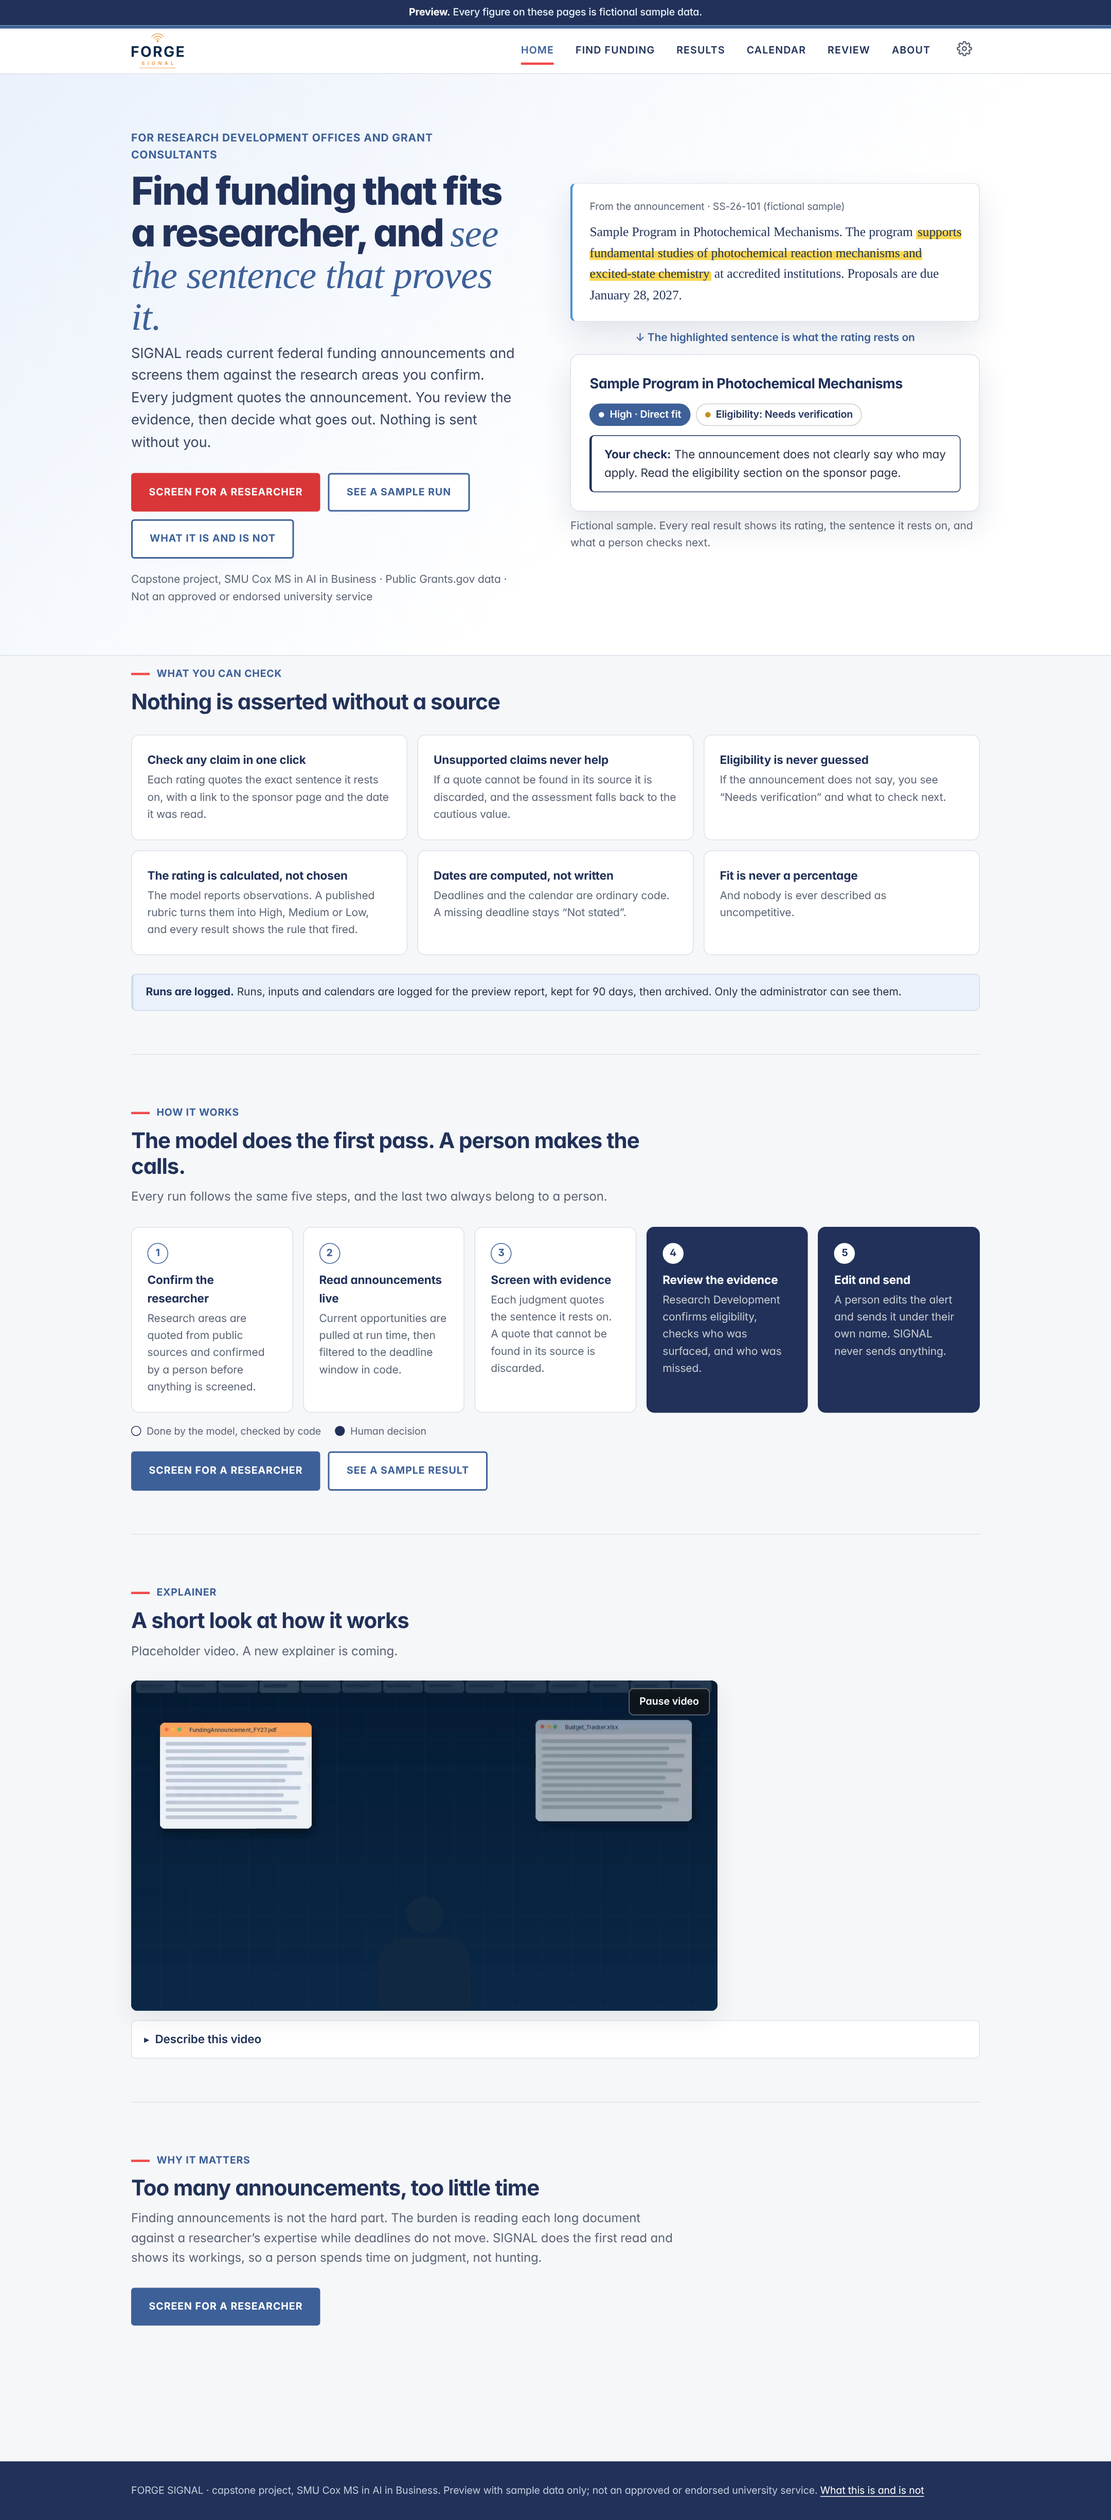
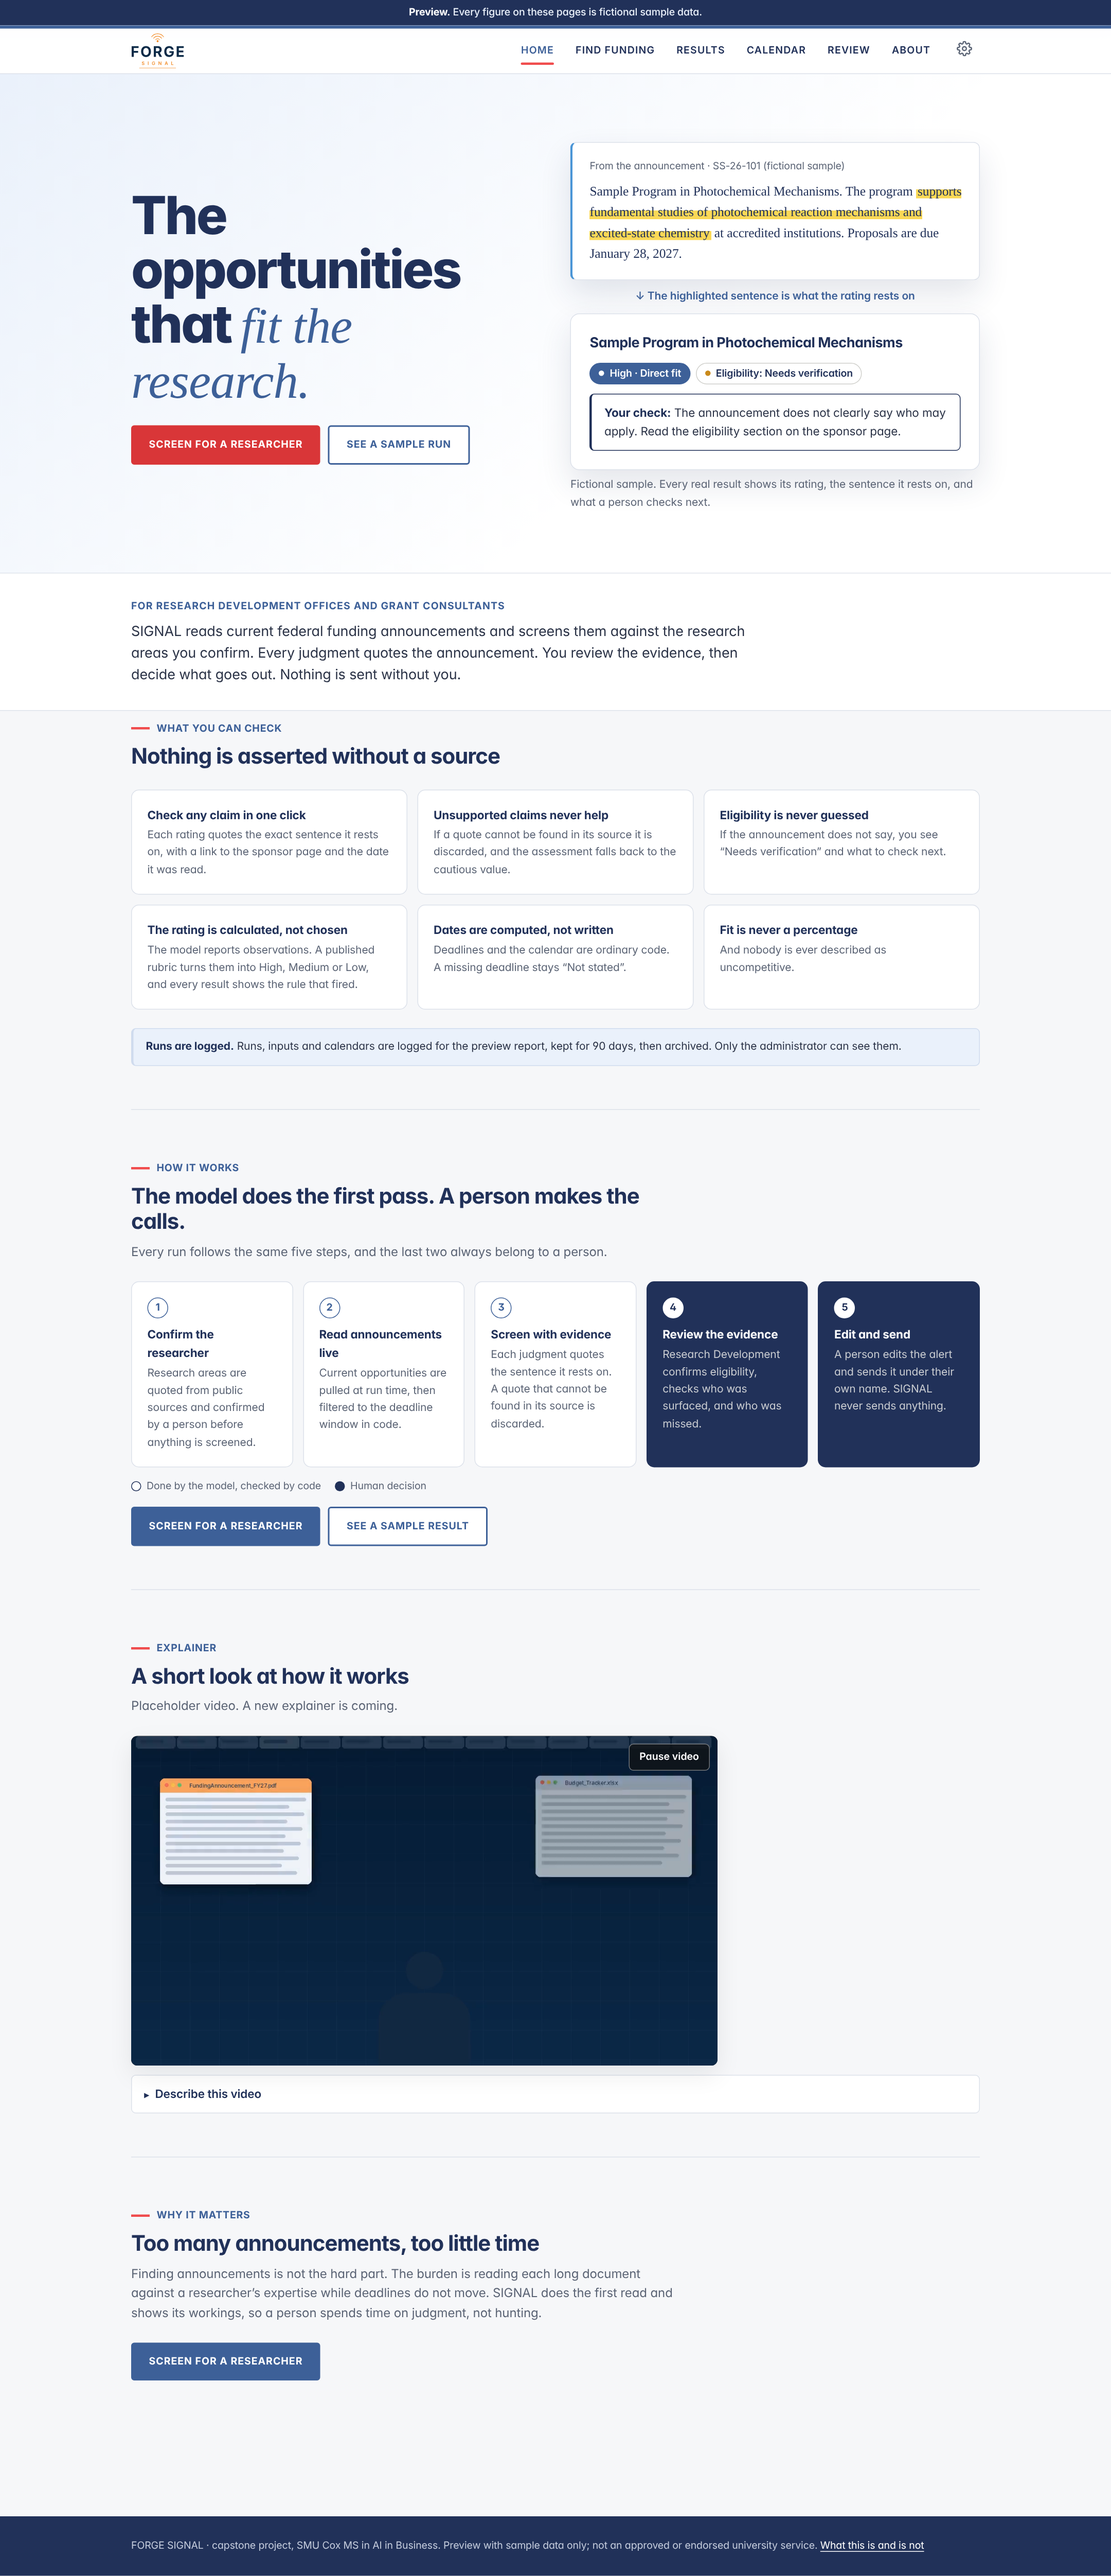
V4: simple hero tagline; promise and audience move below the hero and to About (not pushed)
Claude-Session: https://claude.ai/code/session_01S4MNgDbWgdLg3TnNVptJv9

diff --git a/public/signal/index.html b/public/signal/index.html
@@ -20,11 +20,8 @@
 <main id="main">
 <section class="hero"><div class="wrap hero-grid">
  <div>
-  <p class="eyebrow">For research development offices and grant consultants</p>
-  <h1>Find funding that fits a researcher, and <em>see the sentence that proves it.</em></h1>
-  <p class="lead">SIGNAL reads current federal funding announcements and screens them against the research areas you confirm. Every judgment quotes the announcement. You review the evidence, then decide what goes out. Nothing is sent without you.</p>
-  <div class="btn-row"><a class="btn accent" href="match.html">Screen for a researcher</a><a class="btn ghost sample-only" href="results.html">See a sample run</a><a class="btn ghost" href="about.html">What it is and is not</a></div>
-  <p class="trustline">Capstone project, SMU Cox MS in AI in Business &middot; Public Grants.gov data &middot; Not an approved or endorsed university service</p>
+  <h1>The opportunities that <em>fit the research.</em></h1>
+  <div class="btn-row"><a class="btn accent" href="match.html">Screen for a researcher</a><a class="btn ghost sample-only" href="results.html">See a sample run</a></div>
  </div>
  <div><figure class="sample-card">
   <div class="excerpt">
@@ -39,6 +36,10 @@
   </div>
   <figcaption>Fictional sample. Every real result shows its rating, the sentence it rests on, and what a person checks next.</figcaption>
  </figure></div>
+</div></section>
+<section class="promise" aria-label="What SIGNAL does"><div class="wrap">
+ <p class="for">For research development offices and grant consultants</p>
+ <p class="promise-text">SIGNAL reads current federal funding announcements and screens them against the research areas you confirm. Every judgment quotes the announcement. You review the evidence, then decide what goes out. Nothing is sent without you.</p>
 </div></section>
 
 <div class="wrap">

diff --git a/public/signal/app.css b/public/signal/app.css
@@ -769,3 +769,12 @@ footer a{color:#fff}
 .btn.accent,.hero .btn.accent{background:var(--accent-btn);border-color:var(--accent-btn);color:#fff}
 .btn.accent:hover,.hero .btn.accent:hover{background:var(--accent-btn-hover);border-color:var(--accent-btn-hover)}
 .hero h1 em{font-size:.9em}
+
+/* simple hero: tagline and actions only; the promise sits in a slim band underneath */
+.hero{padding:88px 0 80px}
+.hero h1{font-size:clamp(40px,5.6vw,68px);line-height:1.04;max-width:12ch;margin-bottom:var(--s5)}
+.hero h1 em{font-size:.95em}
+.promise{background:#fff;border-bottom:1px solid var(--border);padding:32px 0}
+.promise .for{margin:0 0 var(--s2);font-size:13px;font-weight:700;letter-spacing:.06em;text-transform:uppercase;color:var(--blue)}
+.promise-text{margin:0;max-width:72ch;font-size:18px;line-height:1.55;color:var(--slate)}
+.hero h1{max-width:17ch;font-size:clamp(38px,5vw,60px)}

diff --git a/public/signal/about.html b/public/signal/about.html
@@ -29,6 +29,11 @@
 </div></section>
 
 <div class="wrap">
+<section id="who">
+ <div class="sec-head"><p class="eyebrow">Who it is for</p><h2>Research development offices and grant consultants</h2>
+ <p>SIGNAL reads current federal funding announcements and screens them against the research areas you confirm. Every judgment quotes the announcement. You review the evidence, then decide what goes out. Nothing is sent without you.</p></div>
+</section>
+
 <section id="scope">
  <div class="sec-head"><p class="eyebrow">Scope</p><h2>Two ways in, one careful process</h2>
  <p>Research development staff usually start in one of two places. Both end the same way: a person reviews the evidence and decides what goes out.</p></div>
